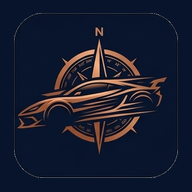
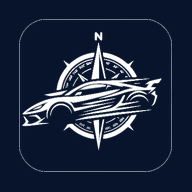
Add files via upload

Changed region(s): [[0.0625, 0.0625, 0.9375, 0.9375]]

diff --git a/index.html b/index.html
@@ -870,7 +870,7 @@ function renderAuth(modo){
   }
   div.innerHTML = `
     <div class="auth-photo" style="background-image:url('${AUTH_CAR}')">
-      <div class="auth-brand2"><img src="${LOGO}" alt=""><span>Attimo<b>Drive</b></span></div>
+      <div class="auth-brand2"><span>Attimo<b>Drive</b></span></div>
     </div>
     <div class="auth-wrap">
       <div class="auth-h1">Seu negócio.<br>Na <span>palma da mão.</span></div>

diff --git a/LEIA-ME.md b/LEIA-ME.md
@@ -33,7 +33,7 @@ Depois de ver a tela de detalhe do veículo com vários botões de cor chapada (
 - Conferido visualmente com capturas de tela do app real rodando (Início, Estoque, detalhe do veículo, Agenda) antes desta entrega.
 
 ## Como visualizar
-A partir de agora, toda entrega inclui um `index.html` solto (fora do zip) para você conseguir abrir e conferir direto na conversa, sem precisar baixar e extrair nada. O zip completo (`CarroNaMao_App.zip`) continua sendo gerado com todos os arquivos do projeto (ícones, manifest, service worker) para quando você for instalar/publicar de verdade.
+A partir de agora, toda entrega inclui um `index.html` solto (fora do zip) para você conseguir abrir e conferir direto na conversa, sem precisar baixar e extrair nada. O zip completo (`AttimoDrive_App.zip`) continua sendo gerado com todos os arquivos do projeto (ícones, manifest, service worker) para quando você for instalar/publicar de verdade.
 
 ## Auditoria completa (16/09/2026) — o que foi testado e o que foi corrigido
 Rodei uma auditoria formal (metodologia AQC-TWA) na camada web/PWA do app — a única camada testável neste ambiente (sem APK/aparelho Android disponível aqui, essa parte fica para quando você gerar o pacote Android de verdade). Foram 17 casos de teste reais, cobrindo: cadastro/edição/exclusão de veículo com persistência confirmada após recarregar, cálculo de comissão do consignante, wizard de proposta completo (venda normal e com troca, testando os dois estados do botão "cadastrar veículo da troca automaticamente"), Agenda (test-drive e Feirão), Financeiro com extrato do veículo (saldo conferido), busca de montadora (aceita marca fora da lista), e checagem de erros de console em todas as telas visitadas.
@@ -113,6 +113,15 @@ Na ordem que você pediu (itens 1, 2, 3, 6 e 7 da análise do Cor Sync Imóveis 
 **7. Mensagens do WhatsApp editáveis.** Em **Ajustes › Mensagens do WhatsApp** você edita os textos de: confirmação de test-drive, retorno ao cliente, pós-feirão, atualização ao consignante, abertura do catálogo e envio de simulação. Os termos **{nome}**, **{veiculo}**, **{data}**, **{hora}** e **{vendedor}** são trocados sozinhos, e cada texto tem "voltar ao padrão". Os botões de WhatsApp da Agenda, dos leads de feirão, dos retornos e o novo "Avisar consignante" (no detalhe do veículo consignado) já abrem com a mensagem pronta — antes abriam a conversa em branco.
 
 Testado com `node --check` e testes automatizados: retorno com telefone puxado sozinho, sino somando retornos vencidos, simulação (139.900 com 30% de entrada = 97.930 financiados, 48x de R$ 3.186,20 na PRICE), passagem para a ficha e recálculo da parcela ao mudar o prazo, catálogo em PDF, anexo e visualização de documento, e as mensagens (padrão e editada) saindo com os dados certos — sem erros de console.
+
+## 12ª rodada — ícone só com texto na tela de acesso + símbolo branco no ícone do app (22/09/2026)
+Dois ajustes rápidos que você pediu:
+
+- **Tela de acesso:** tirei o símbolo (bússola+carro) do canto superior direito — ficou só o texto "AttimoDrive" (Attimo em branco, Drive em cobre), do jeito que você pediu.
+- **Ícone do aplicativo:** troquei o desenho de cobre para **branco** sobre o fundo azul-marinho, nos 4 arquivos (o que aparece na tela inicial do celular, o de 512px, a versão "maskable" e o favicon). Refeito com uma extração mais limpa do símbolo (sem o ruído que a compactação da imagem tinha deixado da primeira vez).
+
+**O que eu acho:** concordo com você — o branco chapado realmente se destaca mais e fica mais "ícone de app" (é o mesmo raciocínio de boa parte dos apps que você usa: Uber, Nubank, etc. usam símbolo sólido numa cor só sobre fundo de cor, não gradiente). O cobre com degradê é bonito em tamanho grande (na logo, na tela de splash, nos PDFs), mas em 48–64px ele perdia detalhe e ficava meio "sujo". Como sugestão: mantive o cobre nos lugares onde a logo aparece grande — a tela de splash e o canto da tela de acesso — porque lá o degradê ainda lê bem e dá aquele efeito mais premium; deixei só o ícone do app (a "vitrine" pequena, onde o contraste importa mais que o efeito) em branco chapado. Se preferir tudo com o mesmo padrão (por exemplo, o símbolo da splash também em branco), é só falar que eu ajusto.
+- Testado com `node --check` e Playwright (tela de acesso sem o símbolo, fluxo de criar conta) — sem erro de console.
 
 ## 11ª rodada — tela de splash refeita + marca d'água (22/09/2026)
 Você reparou que a tela de splash (a telinha rápida que aparece assim que o app abre, antes do login) estava feia — achei o motivo: um bug de CSS fazia o textinho "GESTÃO & ACELERAÇÃO AUTOMOTIVA" sair quase invisível (texto claro sobre fundo claro, sem contraste nenhum) dentro de uma pílula solta, e a logo ficava presa dentro de um cartão branco grande que não combinava com o fundo azul-marinho.
